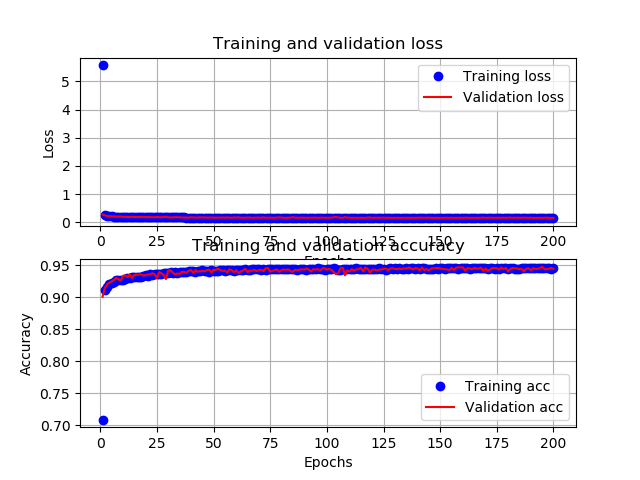
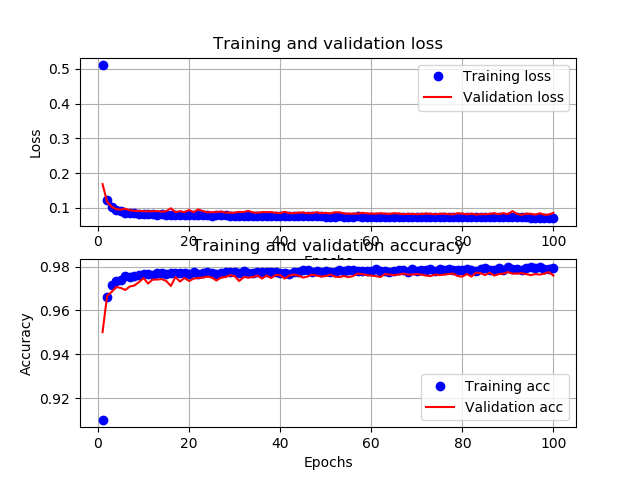
fix

diff --git a/networks/pulsar/main.py b/networks/pulsar/main.py
@@ -6,53 +6,58 @@ import keras
 import matplotlib.pyplot as plt
 from keras.models import Sequential
 from keras.layers import Dense, Dropout
-from keras.optimizers import RMSprop
-from keras.callbacks import ModelCheckpoint, TerminateOnNaN
+from keras.metrics import Recall, Precision, AUC
+from keras.callbacks import ModelCheckpoint, TerminateOnNaN, ReduceLROnPlateau
+from keras import backend as K
+
+
+def f1(y_true, y_pred):
+    def recall(y_true, y_pred):
+        true_positives = K.sum(K.round(K.clip(y_true * y_pred, 0, 1)))
+        possible_positives = K.sum(K.round(K.clip(y_true, 0, 1)))
+        recall = true_positives / (possible_positives + K.epsilon())
+        return recall
+
+    def precision(y_true, y_pred):
+        true_positives = K.sum(K.round(K.clip(y_true * y_pred, 0, 1)))
+        predicted_positives = K.sum(K.round(K.clip(y_pred, 0, 1)))
+        precision = true_positives / (predicted_positives + K.epsilon())
+        return precision
+    precision = precision(y_true, y_pred)
+    recall = recall(y_true, y_pred)
+    return 2*((precision*recall)/(precision+recall+K.epsilon()))
 
 
 batch_size = 128
+metr = 'acc'  # f1, AUC
 
 
-data = genfromtxt('pulsar_stars.csv', delimiter=',')[1:]
-
-false_arr = []
-true_arr = []
-
-i = 0
-for i in range(len(data[:])):
-    if data[i, 8] == 0:
-        false_arr.append(data[i])
-    elif data[i, 8] == 1:
-        true_arr.append(data[i])
-
-false_arr = np.asarray(false_arr)
-true_arr = np.asarray(true_arr)
-
-te_data, te_label = true_arr[:60, 0:8], true_arr[:60, 8]
-true_arr = true_arr[60:]
-te_data = np.concatenate((te_data, false_arr[:100, 0:8]))
-te_label = np.concatenate((te_label, false_arr[:100, 8]))
-false_arr = false_arr[100:]
-
-
-print(true_arr.shape)
-print(false_arr.shape)
-
-
-final_arr = np.concatenate((false_arr[9 * 1748:], true_arr))
-
-i = 0
-for i in range(9):
-    final_arr = np.concatenate((final_arr, false_arr[i * 1609:(i + 1) * 1609]))
-    final_arr = np.concatenate((final_arr, true_arr))
-
-np.random.shuffle(final_arr)
-
-print(final_arr.shape)
-
-a = int(len(final_arr[:]) * 0.75)
-tr_data, tr_label = final_arr[:a, 0:8], final_arr[:a, 8]
-va_data, va_label = final_arr[a:, 0:8], final_arr[a:, 8]
+def load():
+    global tr_data, tr_label, va_data, va_label, te_data, te_label
+    data = genfromtxt('pulsar_stars.csv', delimiter=',')[1:]
+    false_arr = []
+    true_arr = []
+    i = 0
+    for i in range(len(data[:])):
+        if data[i, 8] == 0:
+            false_arr.append(data[i])
+        elif data[i, 8] == 1:
+            true_arr.append(data[i])
+    false_arr = np.asarray(false_arr)
+    true_arr = np.asarray(true_arr)
+    te_data, te_label = true_arr[:60, 0:8], true_arr[:60, 8]
+    true_arr = true_arr[60:]
+    te_data = np.concatenate((te_data, false_arr[:100, 0:8]))
+    te_label = np.concatenate((te_label, false_arr[:100, 8]))
+    false_arr = false_arr[100:]
+    print(true_arr.shape)
+    print(false_arr.shape)
+    final_arr = np.concatenate((false_arr, true_arr))
+    np.random.shuffle(final_arr)
+    print(final_arr.shape)
+    a = int(len(final_arr[:]) * 0.75)
+    tr_data, tr_label = final_arr[:a, 0:8], final_arr[:a, 8]
+    va_data, va_label = final_arr[a:, 0:8], final_arr[a:, 8]
 
 
 """epochs = 50
@@ -66,36 +71,49 @@ seq.add(Dropout(0.25))
 seq.add(Dense(1, activation='sigmoid'))"""
 
 
-epochs = 200
-seq = Sequential()
-seq.add(Dense(16, input_dim=8, activation='relu'))
-seq.add(Dense(8, activation='relu'))
-seq.add(Dense(1, activation='sigmoid'))
+epochs = 100
 
 
-seq.compile(loss='binary_crossentropy', optimizer='adam', metrics=['acc'])
-history = seq.fit(tr_data[:], tr_label[:], batch_size=batch_size,
-                  epochs=epochs, verbose=1,
-                  callbacks=[ModelCheckpoint('weights.hdf5',
-                                             monitor='val_acc',
-                                             verbose=1,
-                                             save_best_only=True),
-                             TerminateOnNaN()],
-                  validation_data=(va_data[:], va_label[:]),
-                  shuffle=True)
-seq.load_weights(f'weights.hdf5')
-seq.save(f'model')
-print(seq.evaluate(te_data, te_label))
-print(seq.predict(te_data[0:10]))
-print(seq.predict(te_data[80:90]))
+def model():
+    seq = Sequential()
+    seq.add(Dense(16, input_dim=8, activation='relu'))
+    seq.add(Dense(8, activation='relu'))
+    seq.add(Dense(1, activation='sigmoid'))
+    return seq
+
+
+def train(seq):
+    global history
+    seq.compile(loss='binary_crossentropy', optimizer='adam', metrics=[metr])
+    checkpoint = ModelCheckpoint('weights.hdf5',
+                                 monitor='val_acc',
+                                 verbose=1,
+                                 save_best_only=True)
+    history = seq.fit(tr_data[:], tr_label[:], batch_size=batch_size,
+                      epochs=epochs, verbose=2,
+                      callbacks=[checkpoint,
+                                 TerminateOnNaN(),
+                                 ReduceLROnPlateau(monitor='val_loss',
+                                                   factor=0.5,
+                                                   patience=10)],
+                      validation_data=(va_data[:], va_label[:]),
+                      shuffle=True)
+    # seq.load_weights(f'weights.hdf5')
+    seq.save(f'model')
+    print(f'predict: {seq.evaluate(te_data, te_label)}')
+    print(seq.predict(te_data[0:20]))
+    print(seq.predict(te_data[80:100]))
 
 
 def ploting():
     # print(history.history.keys())
-    loss = history.history['loss']
-    val_loss = history.history['val_loss']
-    acc = history.history['acc']
-    val_acc = history.history['val_acc']
+    ac = []
+    for i in history.history.keys():
+        ac.append(i)
+    loss = history.history[ac[2]]
+    val_loss = history.history[ac[0]]
+    acc = history.history[ac[3]]
+    val_acc = history.history[ac[1]]
     epochs = range(1, len(loss) + 1)
     fig = plt.figure()
     ax1 = fig.add_subplot(2, 1, 1)
@@ -118,6 +136,11 @@ def ploting():
     plt.show()
 
 
-ploting()
+def main():
+    load()
+    m = model()
+    train(m)
+    ploting()
 
 
+main()
